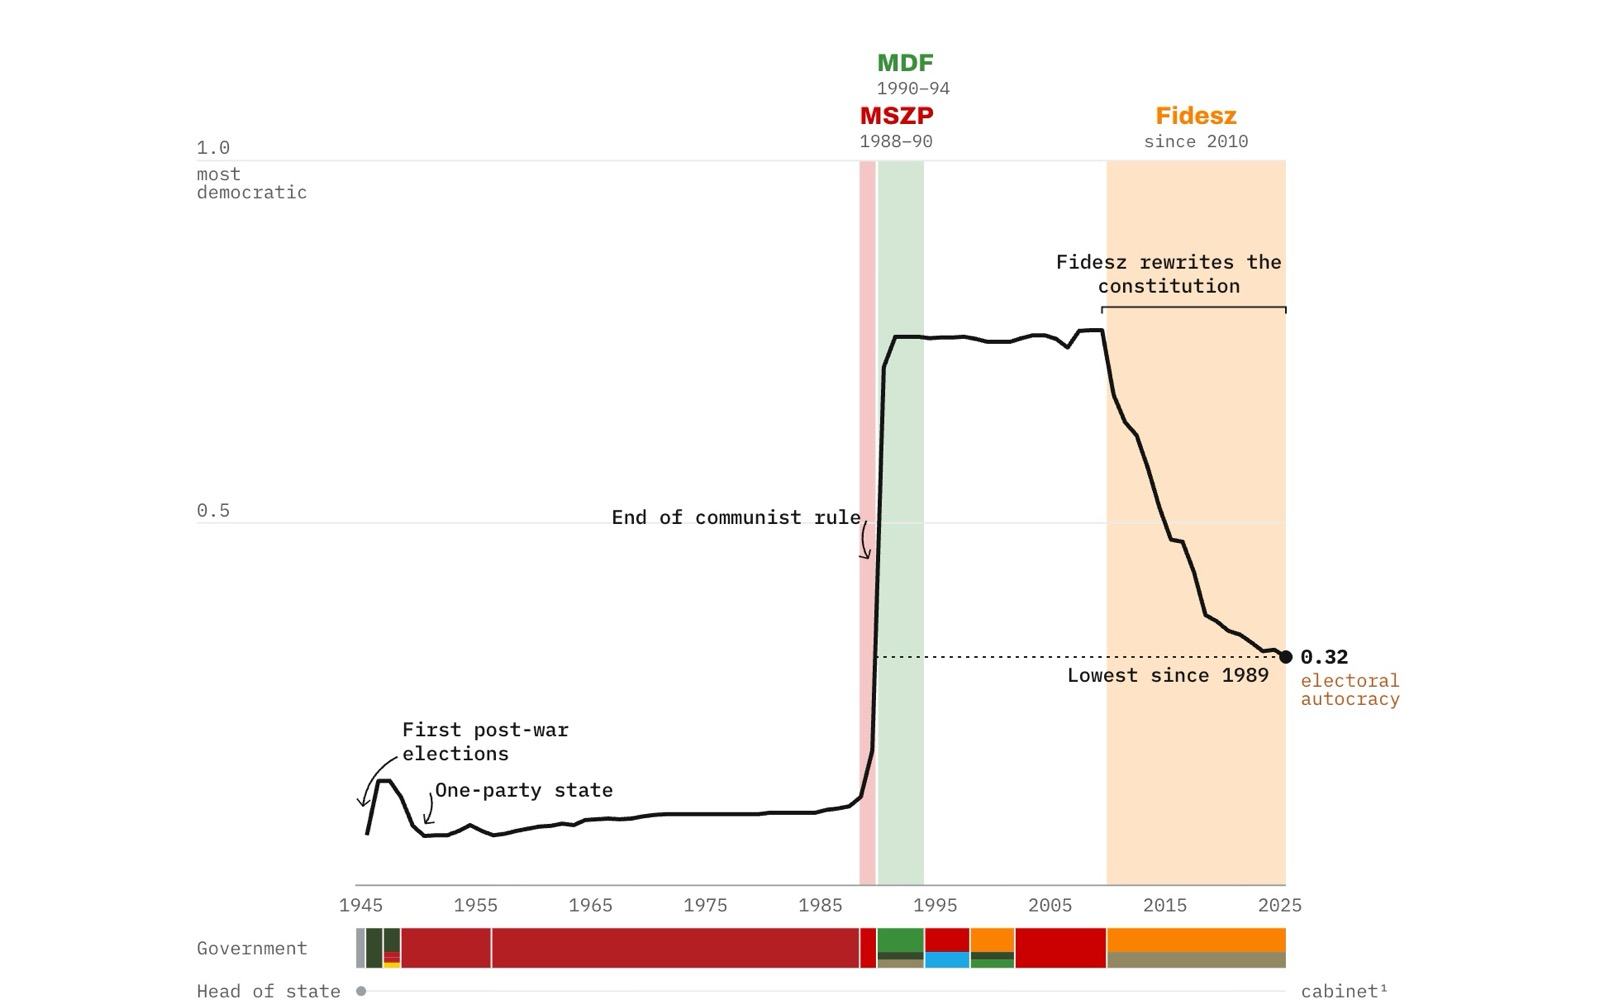
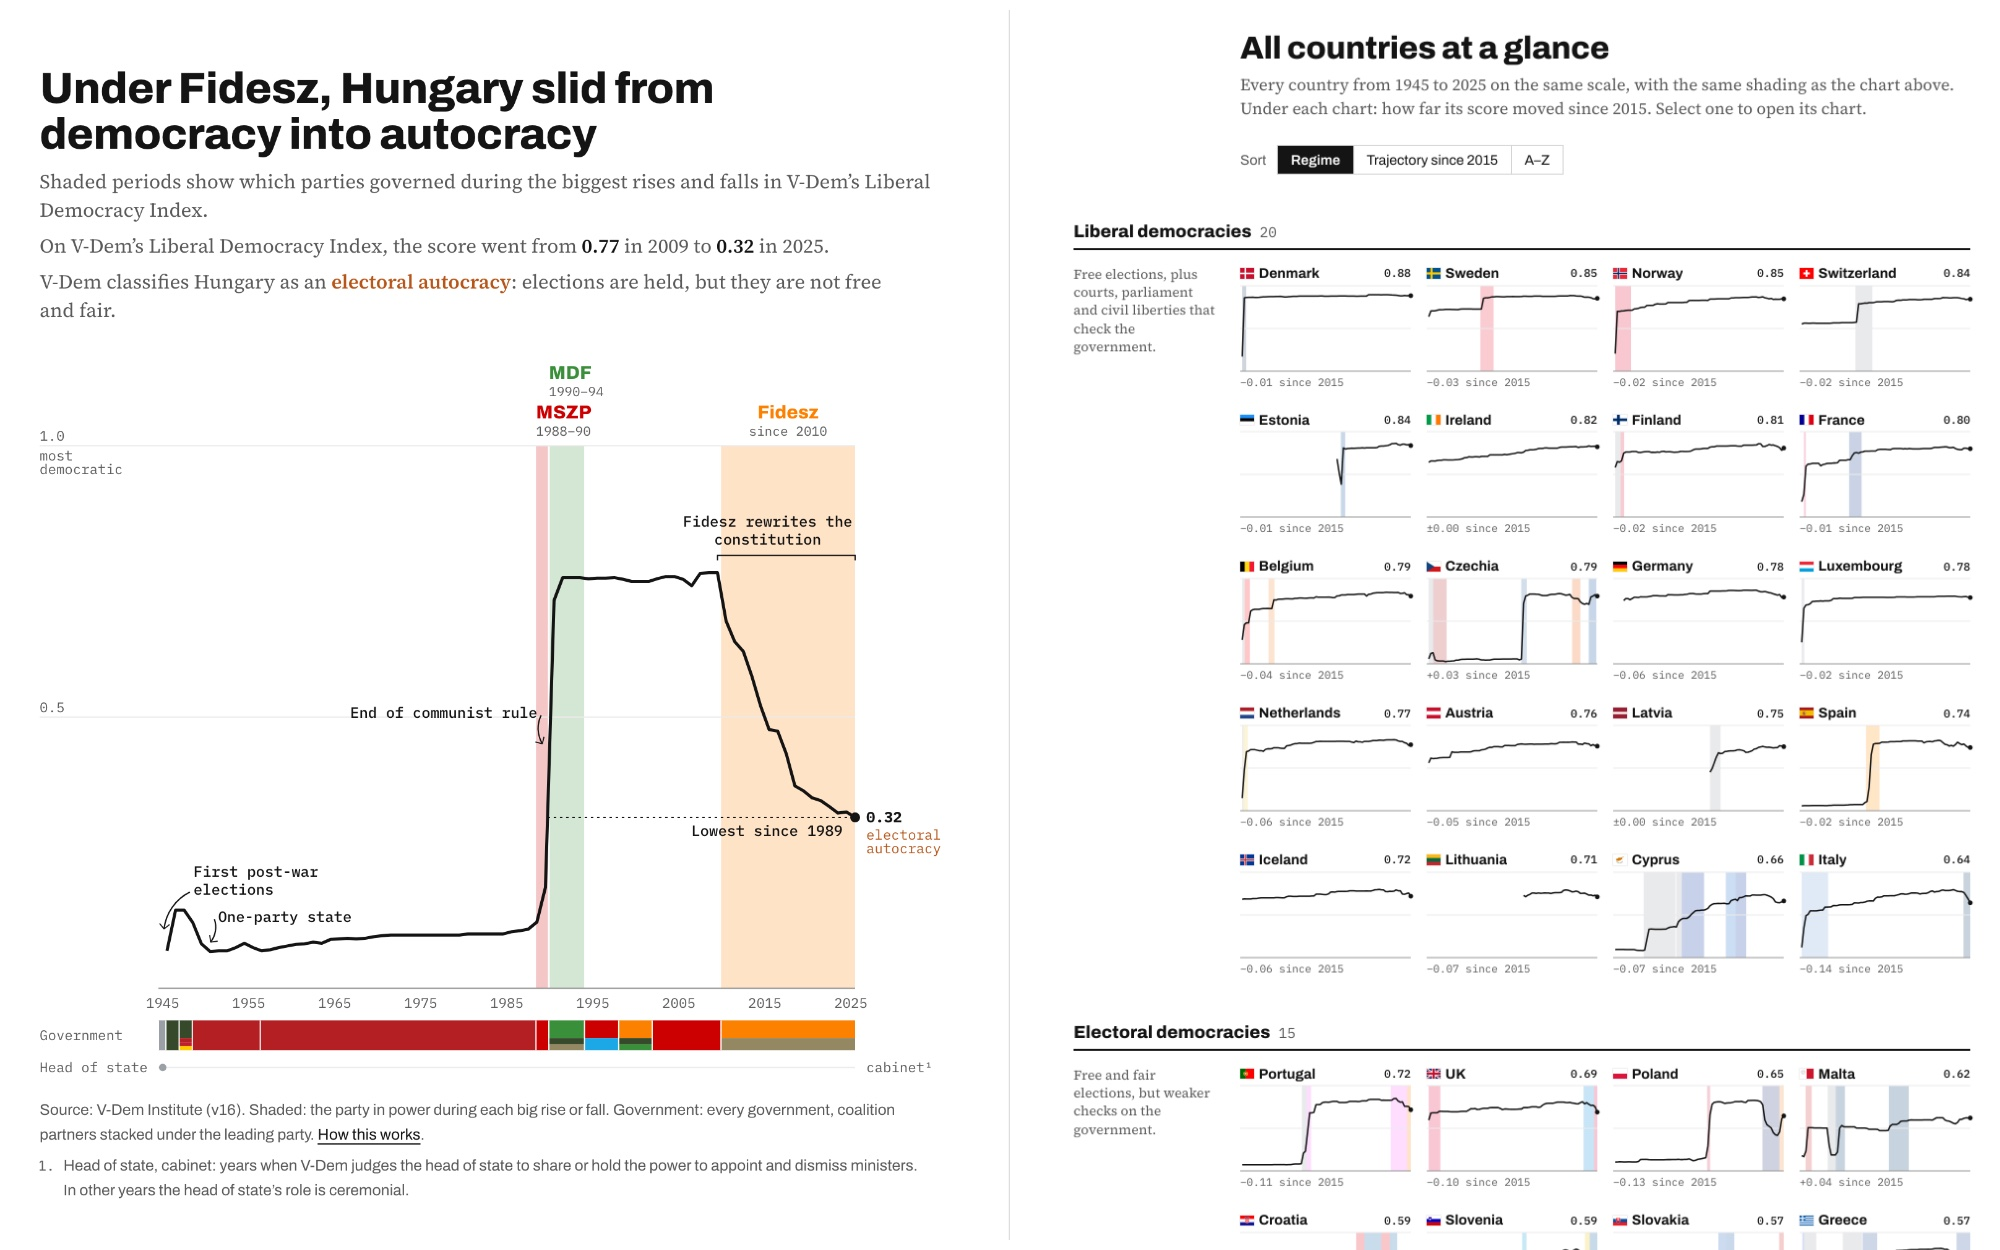
Frame card images: CSS focus for weak crops, chart and gallery for Democracy in Europe

diff --git a/index.html b/index.html
@@ -1110,6 +1110,11 @@
       .also-row .img:hover::before {
         transform: scale(1.03);
       }
+      .also-row .img.fill::before {
+        inset: 0;
+        background-size: var(--size, cover);
+        background-position: var(--pos, center);
+      }
       .also-row .img.on-dark {
         background-color: var(--dark-bg-light);
       }
@@ -2139,8 +2144,8 @@
               </article>
               <article class="also-row">
                 <div
-                  class="img on-dark"
-                  style="--bg: url(assets/erosion1.jpg)"
+                  class="img on-dark fill"
+                  style="--bg: url(assets/erosion1.jpg); --pos: center 32%"
                   role="img"
                   aria-label="Erosion of European democracy, heatmap of year-on-year democracy score changes"
                   data-src="assets/erosion1.jpg"
@@ -2159,8 +2164,8 @@
               </article>
               <article class="also-row">
                 <div
-                  class="img"
-                  style="--bg: url(assets/democracy2.png)"
+                  class="img fill"
+                  style="--bg: url(assets/democracy2.png); --pos: center 65%"
                   role="img"
                   aria-label="Europe's democratic backsliding, slope chart comparing liberal democracy scores in 2012 and 2022"
                   data-src="assets/democracy2.png"
@@ -2179,8 +2184,8 @@
               </article>
               <article class="also-row">
                 <div
-                  class="img"
-                  style="--bg: url(assets/disputedareas.jpg)"
+                  class="img fill"
+                  style="--bg: url(assets/disputedareas.jpg); --pos: center top"
                   role="img"
                   aria-label="Disputed Borders, small multiples of all contested regions"
                   data-src="assets/disputedareas.jpg"
@@ -2291,7 +2296,7 @@
               </article>
               <article class="also-row">
                 <div
-                  class="img"
+                  class="img fill"
                   style="--bg: url(assets/democracydashboard.jpg)"
                   role="img"
                   aria-label="Democracy in Europe dashboard, Hungary's Liberal Democracy Index with governing parties shaded"
@@ -2351,8 +2356,8 @@
               </article>
               <article class="also-row">
                 <div
-                  class="img on-dark"
-                  style="--bg: url(assets/3dmap.jpg)"
+                  class="img on-dark fill"
+                  style="--bg: url(assets/3dmap.jpg); --size: 133% auto; --pos: 20% 37%"
                   role="img"
                   aria-label="Stockholm New Builds, 3D extrusion map"
                   data-src="assets/3dmap.jpg"
